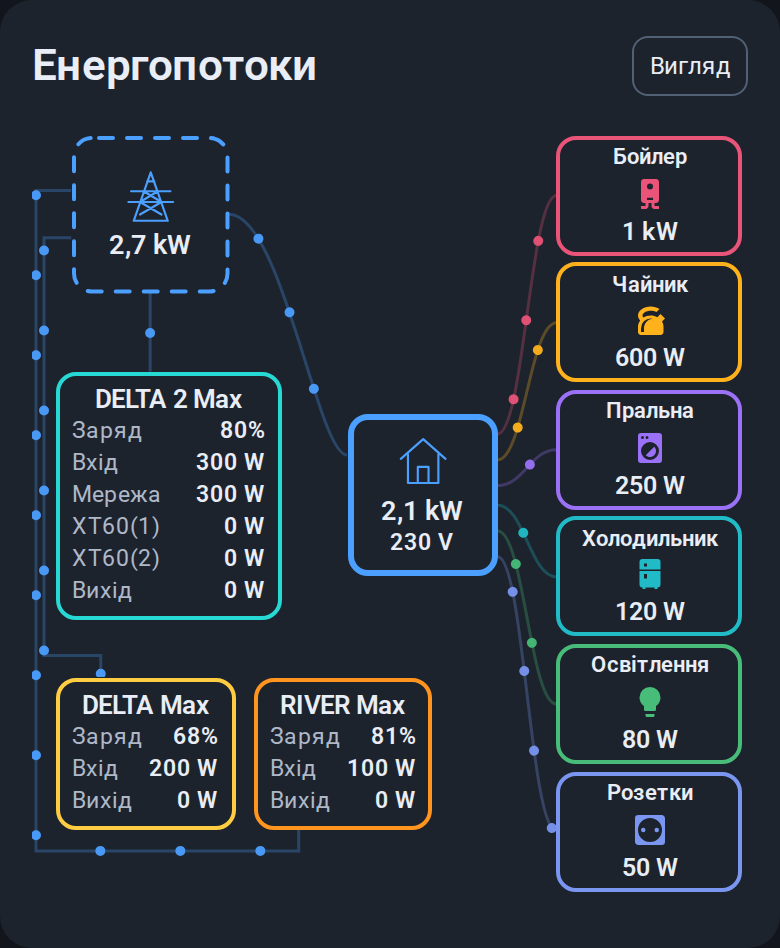
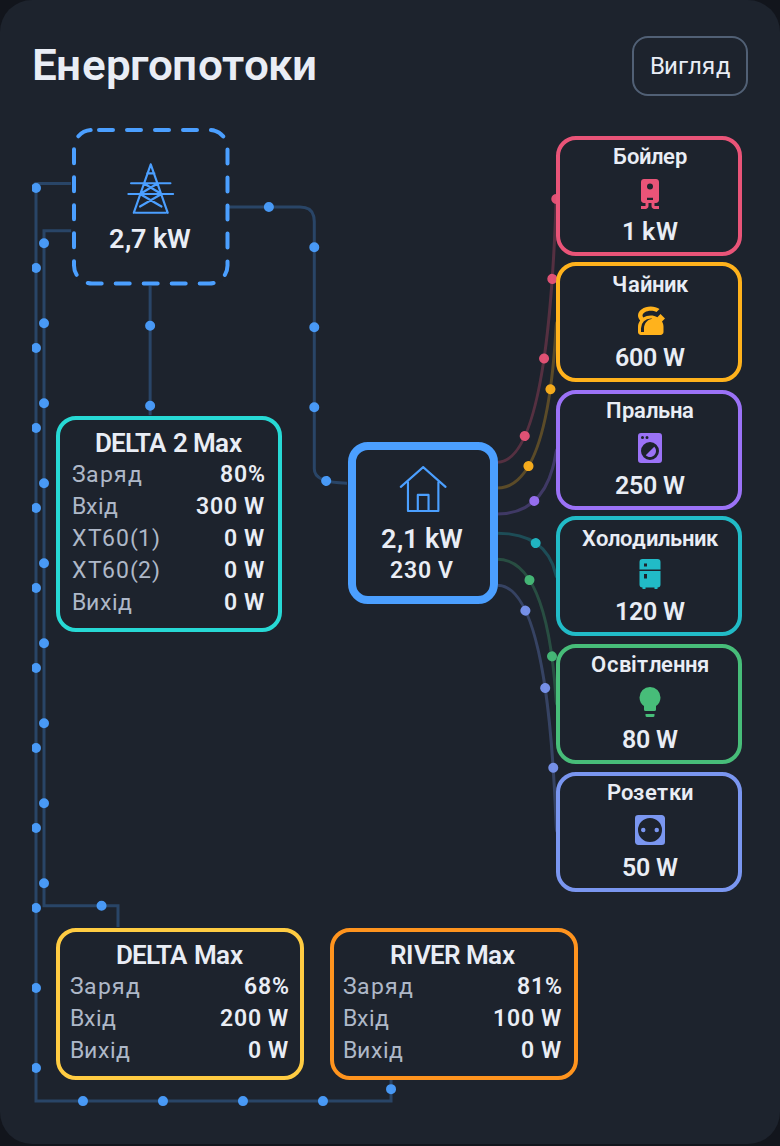
Beta 2.1.3: remove main Grid row, widen auxiliaries and preserve visible energy flows

Changed region(s): [[0.0308, 0.0306, 0.9538, 0.9789], [0.0308, 0.0306, 0.4, 0.3059], [0.0308, 0.3365, 0.0615, 0.3671]]

diff --git a/suris-ecoflow-flow-card.js b/suris-ecoflow-flow-card.js
@@ -1,8 +1,8 @@
-/* Suris EcoFlow Flow Card v2.1.1 | MIT | No external dependencies. */
+/* Suris EcoFlow Flow Card v2.1.3-beta.1 | MIT | No external dependencies. */
 (() => {
   'use strict';
   const TAG = 'suris-ecoflow-flow-card';
-  const VERSION = '2.1.1';
+  const VERSION = '2.1.3-beta.1';
   const ANIMATIONS = ['dashes', 'dots', 'arrows', 'pulse', 'single_dot'];
   const NS = 'http://www.w3.org/2000/svg';
   let cardSequence = 0;
@@ -200,6 +200,7 @@
     @container(max-width:520px){.node.home{padding-inline:3px}}
     .node.consumer{height:72px;min-height:72px;padding:4px;gap:3px;border-radius:9px}.consumer h3{font-size:clamp(11px,1.5cqw,13px);line-height:1.2;white-space:nowrap;overflow:hidden;text-overflow:ellipsis;overflow-wrap:normal}.consumer .icon{height:22px;margin:0;color:var(--node-color)}.consumer ha-icon{--mdc-icon-size:22px;width:22px;height:22px}.consumer ha-icon:not(:defined){display:none}.consumer ha-icon:defined+.fallback{display:none}.consumer .fallback{height:22px}.consumer .fallback svg{width:22px}.consumer .value{width:100%;text-align:center;font-size:12px;line-height:16px}.consumer:focus-within{outline:1px solid var(--node-color);outline-offset:2px}
     .sideflow .node{right:auto;bottom:auto;min-height:0;height:auto;padding:5px 6px;gap:2px;background:var(--ha-card-background,var(--card-background-color,#1c1c1c));border-radius:10px}
+    .sideflow .auxiliary_1,.sideflow .auxiliary_2{padding-inline:5px}
     .sideflow .node h3{font-size:clamp(11.5px,3.625cqw,14.5px);line-height:1.1;overflow:hidden;display:-webkit-box;-webkit-box-orient:vertical;-webkit-line-clamp:2;white-space:normal;overflow-wrap:anywhere}
     .sideflow .node .icon{display:none}.sideflow .row{font-size:clamp(11px,3.25cqw,13px);line-height:1.2;gap:2px}.sideflow .row[hidden]{display:none}
     .sideflow .grid h3,.sideflow .home h3{display:none}.sideflow .grid .icon,.sideflow .home .icon{display:flex;height:clamp(28px,8cqw,38px);margin:0}.sideflow .grid .icon{color:var(--flow-grid)}.sideflow .home .icon{color:var(--flow-home)}
@@ -327,7 +328,7 @@
         }
         else {
           this._row(node, 'soc', text.soc); this._row(node, 'input', text.input);
-          if (key === 'main') { this._row(node, 'ac', text.ac); this._row(node, 'solar_1', 'XT60(1)'); this._row(node, 'solar_2', 'XT60(2)'); }
+          if (key === 'main') { this._row(node, 'solar_1', 'XT60(1)'); this._row(node, 'solar_2', 'XT60(2)'); }
           this._row(node, 'output', text.output);
         }
         this._nodes[key] = node; this._diagram.append(node);
@@ -364,7 +365,6 @@
         let entity = c[node][field === 'soc' ? 'soc' : `${field}_power`];
         if (node === 'grid') entity = c.grid.power;
         if (node === 'home') entity = field === 'voltage' ? c.home.voltage : c.home.power;
-        if (node === 'main' && field === 'ac') entity = c.main.ac_input_power;
         if (node === 'main' && field === 'solar_1') entity = c.main.solar_input_power;
         if (node === 'main' && field === 'solar_2') entity = c.main.solar_input_power_2;
         if (field === 'soc') value = value != null && value >= 0 && value <= 100 ? `${formatter.format(value)}%` : '—';
@@ -465,31 +465,38 @@
       };
       const gridSize = Math.max(74, Math.min(110, 88 * sx));
       const gridTitleSpace = this._config.grid.show_name ? Math.ceil(this._nodes.grid.querySelector('h3').getBoundingClientRect().height) + 6 : 0;
-      place(this._nodes.grid, Math.max(14, 22 * sx), 12 * sy + gridTitleSpace, gridSize, gridSize);
-      place(this._nodes.main, Math.max(12, 10 * sx), 0, 126 * sx);
-      place(this._nodes.home, 176 * sx, 0, 84 * sx);
+      const stationLeft = Math.max(12, 10 * sx), mainWidth = 126 * sx;
+      const homeLeft = 176 * sx;
+      const gridY = gridTitleSpace ? Math.max(28, gridTitleSpace + 2) : 8 * sy;
+      place(this._nodes.grid, Math.max(14, 22 * sx), gridY, gridSize, gridSize);
+      place(this._nodes.main, stationLeft, 0, mainWidth);
+      place(this._nodes.home, homeLeft, 0, 84 * sx);
       this._nodes.home.style.minHeight = `${90 * sy}px`;
-      place(this._nodes.auxiliary_1, Math.max(12, 8 * sx), 0, 100 * sx);
-      place(this._nodes.auxiliary_2, 124 * sx, 0, 100 * sx);
+      // Fixed widths depend only on the card width, never on sensor readings.
+      const auxWidth = Math.max(124, 136 * sx), auxGap = Math.max(12, 14 * sx);
+      place(this._nodes.auxiliary_1, stationLeft, 0, auxWidth);
+      place(this._nodes.auxiliary_2, stationLeft + auxWidth + auxGap, 0, auxWidth);
       const consumerHeight = Math.max(60, Math.min(64, width * .16)), rightInset = 3 * sx;
       const consumerWidth = Math.min(consumerHeight * 1.55, width - rightInset - 260 * sx - 28), consumerX = width - rightInset - consumerWidth;
       for (const node of this._consumerNodes.values()) place(node, consumerX, 0, consumerWidth, consumerHeight);
       this._fitConsumerNames();
       this._fitRows();
-      const mainY = Math.max(144 * sy, 12 * sy + gridSize + 34 * sy);
+      const mainY = Math.max(144 * sy, 28 + gridSize + 44);
       this._nodes.main.style.top = `${mainY}px`;
-      const homeY = Math.max(159 * sy, mainY + (this._nodes.main.offsetHeight - this._nodes.home.offsetHeight) / 2);
+      const mainHeight = this._nodes.main.getBoundingClientRect().height, homeHeight = this._nodes.home.getBoundingClientRect().height;
+      const homeY = Math.max(159 * sy, mainY + (mainHeight - homeHeight) / 2);
       this._nodes.home.style.top = `${homeY}px`;
-      const auxY = Math.max(302 * sy, mainY + this._nodes.main.offsetHeight + 32 * sy, homeY + this._nodes.home.offsetHeight + 36 * sy);
-      for (const key of ['auxiliary_1', 'auxiliary_2']) this._nodes[key].style.top = `${auxY}px`;
       const step = consumerHeight + 4 * sy;
+      const consumerBottom = this._consumerNodes.size ? 12 * sy + (this._consumerNodes.size - 1) * step + consumerHeight : 0;
+      const auxConsumerClearance = stationLeft + 2 * auxWidth + auxGap > consumerX - 8 ? consumerBottom + 18 : 0;
+      const auxY = Math.max(302 * sy, mainY + mainHeight + 44, homeY + homeHeight + 36 * sy, auxConsumerClearance);
+      for (const key of ['auxiliary_1', 'auxiliary_2']) this._nodes[key].style.top = `${auxY}px`;
       for (const node of this._consumerNodes.values()) node.style.top = `${12 * sy + Number(node.dataset.slot) * step}px`;
       const nodeBottom = Math.max(...[...Object.values(this._nodes), ...this._consumerNodes.values()].map(node => node.offsetTop + node.offsetHeight));
       const auxBottom = Math.max(...['auxiliary_1', 'auxiliary_2'].map(key => this._nodes[key].offsetTop + this._nodes[key].offsetHeight));
       this._diagram.style.height = `${Math.max(nodeBottom + 12, auxBottom + 18 * sy)}px`;
       this._diagram.dataset.consumerRows = String(this._consumerNodes.size);
       this._sideScale = sy;
-      this._sideGridTitleSpace = gridTitleSpace;
     }
     _drawSidePaths() {
       this._layoutSideFlow(); this._drawBorders();
@@ -500,11 +507,12 @@
         return { x: r.left - base.left, y: r.top - base.top, w: r.width, h: r.height, right: r.right - base.left, bottom: r.bottom - base.top };
       };
       const g = rect('grid'), a = rect('auxiliary_1'), b = rect('auxiliary_2'), m = rect('main'), h = rect('home'), sy = this._sideScale;
-      const gap = h.x - g.right, auxLane = Math.max(a.bottom, b.bottom) + 12 * sy;
-      const gridHomeY = g.y + g.h / 2 - this._sideGridTitleSpace;
+      const auxLane = Math.max(a.bottom, b.bottom) + 12 * sy;
+      const gridHomeY = g.y + g.h / 2, homePortY = h.y + h.h * .25;
+      const gridHomeLane = m.right + (h.x - m.right) / 2, elbow = Math.min(8 * sy, (h.x - m.right) / 2);
       const routes = {
         grid_main: `M ${g.x + g.w / 2} ${g.bottom} V ${m.y}`,
-        grid_home: `M ${g.right} ${gridHomeY} C ${g.right + gap * .45} ${gridHomeY} ${h.x - gap * .25} ${h.y + h.h * .25} ${h.x} ${h.y + h.h * .25}`,
+        grid_home: `M ${g.right} ${gridHomeY} H ${gridHomeLane - elbow} Q ${gridHomeLane} ${gridHomeY} ${gridHomeLane} ${gridHomeY + elbow} V ${homePortY - elbow} Q ${gridHomeLane} ${homePortY} ${h.x} ${homePortY}`,
         main_home: `M ${m.right} ${m.y + m.h * .78} C ${m.right + (h.x - m.right) * .4} ${m.y + m.h * .78} ${h.x - (h.x - m.right) * .4} ${h.y + h.h * .72} ${h.x} ${h.y + h.h * .72}`,
         auxiliary_1_main: `M ${a.x + a.w * .75} ${a.y} C ${a.x + a.w * .75} ${a.y - 20 * sy} ${m.x + m.w * .37} ${a.y - 20 * sy} ${m.x + m.w * .37} ${m.bottom}`,
         auxiliary_2_main: `M ${b.x + b.w * .66} ${b.y} C ${b.x + b.w * .66} ${b.y - 20 * sy} ${m.x + m.w * .77} ${b.y - 20 * sy} ${m.x + m.w * .77} ${m.bottom}`,
@@ -513,7 +521,8 @@
       };
       for (const [id, node] of this._consumerNodes) {
         const c = rect(`consumer:${id}`), start = h.y + h.h * [.12, .28, .44, .56, .72, .88][Number(node.dataset.slot)], end = c.y + c.h / 2, span = c.x - h.right;
-        routes[`home_consumer_${id}`] = `M ${h.right} ${start} C ${h.right + span * .45} ${start} ${c.x - span * .45} ${end} ${c.x} ${end}`;
+        const controlX = h.right + span * .97;
+        routes[`home_consumer_${id}`] = `M ${h.right} ${start} C ${controlX} ${start} ${controlX} ${end} ${c.x} ${end}`;
       }
       this._paintRoutes(base, rect, routes, {}, true);
     }

diff --git a/demo.html b/demo.html
@@ -1,5 +1,5 @@
 <!doctype html>
-<html lang="uk"><head><meta charset="utf-8"><meta name="viewport" content="width=device-width,initial-scale=1"><title>Suris EcoFlow Flow Card 2.1.1 — Demo</title>
+<html lang="uk"><head><meta charset="utf-8"><meta name="viewport" content="width=device-width,initial-scale=1"><title>Suris EcoFlow Flow Card 2.1.3-beta.1 — Demo</title>
 <style>body{margin:20px auto;padding:0 12px;max-width:1060px;background:#111;color:#eee;font:16px system-ui;--ha-card-background:#1c1c1c;--primary-text-color:#eee;--secondary-text-color:#aaa;--divider-color:#535861}nav{display:flex;gap:8px;flex-wrap:wrap;margin:16px 0}button{background:#222;border:1px solid #666;color:#eee;padding:10px 14px;border-radius:8px;cursor:pointer}button:focus-visible{outline:2px solid #27d9d5}p{color:#aaa;font-size:13px}</style>
 </head><body><nav><button data-mode="main">Дім від EcoFlow</button><button data-mode="aux3">Передача EcoFlow №3</button><button data-mode="grid">Дім від мережі</button><button data-mode="charging">Заряджання від мережі</button><button data-mode="replace">Заміна сильнішим приладом</button><button data-mode="single">Один ряд приладів</button><button data-mode="idle">Прилади вимкнені</button><button data-mode="unknown">Джерело недоступне</button></nav><div style="display:flex;gap:18px;flex-wrap:wrap;margin:12px 0"><label>Анімація потоків <select id="animation"><option value="dashes">Поточна анімація (штрихи)</option><option value="dots">Рухомі точки</option><option value="arrows">Рухомі стрілки</option><option value="pulse">Пульсуючі світлові смуги</option><option value="single_dot">Одна рухома точка</option></select></label><label>Розмір точок <input id="dot-size" type="range" min="2" max="10" value="5"><output id="size-output">5 px</output></label></div><suris-ecoflow-flow-card></suris-ecoflow-flow-card><p>Демонстраційні показники. Для встановлення відкрий README.md.</p>
 <script src="./suris-ecoflow-flow-card.js"></script><script>

diff --git a/README.md b/README.md
@@ -1,6 +1,8 @@
-# Suris EcoFlow Flow Card 2.1.1
+# Suris EcoFlow Flow Card 2.1.3-beta.1
 
-[English](README_EN.md) · [Стабільний реліз 2.1.1](https://github.com/Suris2009/suris-ecoflow-flow-card/releases/tag/v2.1.1) · [Завантажити JS](https://github.com/Suris2009/suris-ecoflow-flow-card/releases/download/v2.1.1/suris-ecoflow-flow-card.js)
+[English](README_EN.md) · [Стабільний реліз 2.1.1](https://github.com/Suris2009/suris-ecoflow-flow-card/releases/tag/v2.1.1) · [Завантажити JS](https://github.com/Suris2009/suris-ecoflow-flow-card/releases/download/v2.1.3-beta.1/suris-ecoflow-flow-card.js)
+
+**Бета на базі 2.1.1.** У HACS увімкни показ бета-версій. [Зміни та приклади](RELEASE_NOTES.md).
 
 Картка енергопотоків для Home Assistant, яка показує міську мережу, три станції EcoFlow, дім та індивідуальні споживачі в одній схемі.
 
@@ -12,7 +14,7 @@
 - **Настроювані кольори.** Окремі кольори міської мережі, кожної станції та кожного приладу. Є готові зразки, палітра, змішування відтінку, насиченості й яскравості та повернення типового кольору. Рамка дому автоматично має колір його джерела живлення.
 - **П’ять анімацій.** Рухомі штрихи, точки, стрілки, пульсуючі світлові смуги та одна рухома точка. Розмір точок регулюється від 2 до 10 px.
 - **Регулювання швидкості та порога активності.** Загальну швидкість руху можна змінювати в редакторі, а кожна лінія додатково реагує на свою потужність. Оновлення показників змінює швидкість без перезапуску анімації. Неактивні лінії приховані.
-- **Усі основні показники.** Заряд, вхід і вихід трьох станцій; окремий AC-вхід головної EcoFlow та два входи XT60(1)/XT60(2). Для дому — потужність і необов’язковий датчик напруги. Значення автоматично відображаються у W або kW.
+- **Усі основні показники.** Заряд, вхід і вихід трьох станцій; два входи XT60(1)/XT60(2) головної EcoFlow. Для дому — потужність і необов’язковий датчик напруги. Значення автоматично відображаються у W або kW.
 - **Автоматичне визначення живлення дому.** Джерело визначається за показаннями потужності. Окремий датчик потужності дому необов’язковий: картка може використовувати вихід головної EcoFlow або розрахунок від мережі з відніманням заряджання станцій.
 - **Попередження про відсутність мережі.** За налаштованим датчиком у блоці мережі блимає напис «Мережі немає». Джерела, що віддають енергію, мають рухомі пунктирні рамки за годинниковою стрілкою; рамка дому залишається суцільною.
 - **Назви, іконки та докладні дані.** У «Боковому потоці» назви приладів показані одним рядком, довгі скорочуються двома крапками; повна назва є в підказці. Іконки вирівняні між назвою та потужністю. Натискання показника з налаштованою сутністю відкриває її докладну інформацію.
@@ -34,11 +36,11 @@
 
 ## Встановлення та оновлення
 
-Додай `https://github.com/Suris2009/suris-ecoflow-flow-card` як користувацький репозиторій HACS для карток панелі огляду (Dashboard), встанови **2.1.1** та перезавантаж інтерфейс Home Assistant. Додай картку **Suris EcoFlow Flow Card** на панель і вибери сутності у візуальному редакторі.
+Додай `https://github.com/Suris2009/suris-ecoflow-flow-card` як користувацький репозиторій HACS для карток панелі огляду (Dashboard), встанови **2.1.3-beta.1** та перезавантаж інтерфейс Home Assistant. Додай картку **Suris EcoFlow Flow Card** на панель і вибери сутності у візуальному редакторі.
 
 Ресурс HACS: `/hacsfiles/suris-ecoflow-flow-card/suris-ecoflow-flow-card.js`, тип **JavaScript module**. Якщо ресурс уже додано, використовується той самий файл.
 
-Для ручного встановлення завантаж JS-файл із релізу, поклади його до `www` у каталозі конфігурації Home Assistant та додай ресурс `/local/suris-ecoflow-flow-card.js?v=2.1.1` типу **JavaScript module**. Якщо каталог `www` створено вперше, перезапусти Home Assistant.
+Для ручного встановлення завантаж JS-файл із релізу, поклади його до `www` у каталозі конфігурації Home Assistant та додай ресурс `/local/suris-ecoflow-flow-card.js?v=2.1.3-beta.1` типу **JavaScript module**. Якщо каталог `www` створено вперше, перезапусти Home Assistant.
 
 При оновленні зі стабільної 2.0.8 або бети 2.1 налаштування сутностей, приладів, кольорів і анімації зберігаються. Наявні картки початково використовують класичне розташування; збережений у браузері вибір бокового вигляду також залишається. Дублювати картку чи JS-ресурс не потрібно.
 
@@ -83,7 +85,7 @@ appearance:
 | --- | --- |
 | Міська мережа | Потужність; необов’язковий датчик наявності мережі та стан «мережа є». |
 | Кожна допоміжна станція | Заряд (%), загальний вхід і вихід; необов’язково окремі потужності заряджання від мережі та передачі на головну станцію. |
-| Головна EcoFlow | Заряд (%), загальний вхід і вихід, окремий AC-вхід, два DC-входи XT60(1)/XT60(2); необов’язково окремий вихід на дім. |
+| Головна EcoFlow | Заряд (%), загальний вхід і вихід, два DC-входи XT60(1)/XT60(2); необов’язково окремий вихід на дім. |
 | Дім | Необов’язкові датчики потужності та напруги; напруга показується під потужністю у V. |
 
 Джерело дому визначається за потужністю виходу головної станції на дім. Якщо вибрано окремий датчик цього виходу, він має пріоритет над загальним виходом. Потужність вище порога означає живлення від EcoFlow; доступний невід’ємний показник на порозі або нижче — від мережі. Якщо вихід EcoFlow недоступний, додатна потужність мережі вище порога дає можливість визначити живлення від мережі.

diff --git a/RELEASE_NOTES.md b/RELEASE_NOTES.md
@@ -1,21 +1,31 @@
-# 2.1.1 — Home border and optional names / Рамка дому та необов’язкові назви
-
-## English
-
-- Increase Home’s solid border slightly, from 3 px to 4 px, in both layouts.
-- Add separate switches for custom grid and Home names above their frames in Side flow. The names do not increase card height or replace the icons.
-- Keep existing view preferences, power calculations, consumer sizes, flow colors and animations.
-
-In **City grid** and **Home**, enter text in **Name** and enable **Show name above the block in Side flow**. Each name is controlled independently and appears above its frame. Long names are truncated, with the full text in a tooltip. Names are hidden by default and do not increase the card height.
-
-<img src="https://raw.githubusercontent.com/Suris2009/suris-ecoflow-flow-card/v2.1.1/preview-sideflow-names-en.png" width="390" alt="Side flow with grid and Home names above the frames">
+# 2.1.3-beta.1 — Station spacing / Відстані між станціями
 
 ## Українська
 
-- Суцільна рамка дому трохи товстіша: 4 px замість 3 px в обох виглядах.
-- Додано окремі перемикачі довільних назв над рамками мережі й дому в боковому вигляді. Назви не збільшують висоту картки та не замінюють іконки.
-- Збережено вибір вигляду, розрахунки потужності, розміри споживачів, кольори й анімації потоків.
+Бета на базі стабільної 2.1.1.
 
-У блоках **Міська мережа** та **Дім** введи текст у полі **Назва** й увімкни **Показувати назву над блоком у боковому вигляді**. Назви вмикаються окремо та показуються над відповідними рамками. Довгі назви скорочуються, а повний текст доступний у підказці. За замовчуванням назви приховані; висота картки не збільшується.
+- Повністю прибрано рядок «Мережа» з головної станції в обох виглядах. Датчик AC-входу залишається в налаштуваннях для розрахунків та потоку мережа → головна станція.
+- У боковому вигляді потік місто → дім виходить із середини правої сторони міського блоку, зокрема з увімкненою назвою над ним.
+- Обидві допоміжні станції ширші; показники kW розташовані в одному рядку зі своїми підписами. Ширина не змінюється від показань датчиків; шрифт збережено.
+- Міський блок трохи піднято. Від міста до головної станції та від головної до допоміжних залишено щонайменше 44 px для видимого потоку.
+- На вузькому екрані допоміжні станції розміщуються нижче стовпчика приладів, якщо їхня ширина потребує цього простору.
 
-<img src="https://raw.githubusercontent.com/Suris2009/suris-ecoflow-flow-card/v2.1.1/preview-sideflow-names-uk.png" width="390" alt="Боковий потік із назвами над рамками мережі й дому">
+У HACS відкрий повторне завантаження картки, увімкни показ бета-версій та вибери **2.1.3-beta.1**. Після встановлення перезавантаж інтерфейс Home Assistant. Стабільний реліз — **2.1.1**.
+
+<img src="https://raw.githubusercontent.com/Suris2009/suris-ecoflow-flow-card/v2.1.3-beta.1/preview-sideflow-charging-uk.png" width="390" alt="Боковий потік: заряджання головної станції без рядка Мережа">
+<img src="https://raw.githubusercontent.com/Suris2009/suris-ecoflow-flow-card/v2.1.3-beta.1/preview-sideflow-stations-uk.png" width="390" alt="Ширші допоміжні станції з показниками kW">
+
+## English
+
+Beta based on stable 2.1.1.
+
+- Remove the Grid row completely from the main station in both layouts. Keep the AC input entity in the editor for calculations and the grid-to-main flow.
+- In Side flow, the city-to-Home route leaves the midpoint of the city block's right border, including when its custom name is visible.
+- Widen both auxiliary stations so kW readings stay on one line with their labels. Sensor readings never resize station widths; text retains its existing size.
+- Move the city block slightly upward. Keep at least 44 px between the city and main station, and between the main and auxiliary stations, for visible energy flows.
+- On narrow screens, place the auxiliaries below the device column when their width requires that space.
+
+In HACS, open the card's redownload dialog, enable beta versions and select **2.1.3-beta.1**. Reload the Home Assistant frontend after installation. The stable release remains **2.1.1**.
+
+<img src="https://raw.githubusercontent.com/Suris2009/suris-ecoflow-flow-card/v2.1.3-beta.1/preview-sideflow-charging-en.png" width="390" alt="Side flow: main station charging without a Grid row">
+<img src="https://raw.githubusercontent.com/Suris2009/suris-ecoflow-flow-card/v2.1.3-beta.1/preview-sideflow-stations-en.png" width="390" alt="Wider auxiliary stations with kW readings">

diff --git a/README_EN.md b/README_EN.md
@@ -1,6 +1,8 @@
-# Suris EcoFlow Flow Card 2.1.1
+# Suris EcoFlow Flow Card 2.1.3-beta.1
 
-[Українська](README.md) · [Stable release 2.1.1](https://github.com/Suris2009/suris-ecoflow-flow-card/releases/tag/v2.1.1) · [Download JS](https://github.com/Suris2009/suris-ecoflow-flow-card/releases/download/v2.1.1/suris-ecoflow-flow-card.js)
+[Українська](README.md) · [Stable release 2.1.1](https://github.com/Suris2009/suris-ecoflow-flow-card/releases/tag/v2.1.1) · [Download JS](https://github.com/Suris2009/suris-ecoflow-flow-card/releases/download/v2.1.3-beta.1/suris-ecoflow-flow-card.js)
+
+**Beta based on 2.1.1.** Enable beta versions in HACS. [Changes and examples](RELEASE_NOTES.md).
 
 A Home Assistant energy flow card that brings the city grid, three EcoFlow stations, Home and individual consumers into one diagram.
 
@@ -12,7 +14,7 @@ A Home Assistant energy flow card that brings the city grid, three EcoFlow stati
 - **Custom colors.** Set separate colors for the city grid, each station and each device. Choose presets, use a palette, mix hue, saturation and lightness, or restore defaults. Home’s border automatically takes the color of its power source.
 - **Five animations.** Moving dashes, dots, arrows, pulsing light strips and one moving dot. Dot size is adjustable from 2 to 10 px.
 - **Adjustable speed and activity threshold.** Set the overall movement speed in the editor; each line also responds to its own power. Live readings adjust speed without restarting the animation. Inactive connections stay hidden.
-- **All key readings.** Battery charge, input and output for three stations; a dedicated AC input and two XT60(1)/XT60(2) inputs for the main EcoFlow. Home shows power and optional voltage. Values automatically use W or kW.
+- **All key readings.** Battery charge, input and output for three stations; two XT60(1)/XT60(2) inputs for the main EcoFlow. Home shows power and optional voltage. Values automatically use W or kW.
 - **Automatic Home source detection.** Power readings determine the source. A separate Home power sensor is optional: the card can use main EcoFlow output or calculate Home demand from grid power minus station charging.
 - **Grid outage warning.** An optional availability sensor triggers a pulsing No grid message inside the grid block. Supplying sources have clockwise moving dashed borders; Home retains a solid border.
 - **Names, icons and details.** Side flow keeps consumer names on one line, ending long names with two dots; the full name remains in the tooltip. Icons are centered between name and power. Clicking a reading with a configured entity opens its details.
@@ -34,11 +36,11 @@ Screenshots of the actual card with demonstration readings. Station names, entit
 
 ## Installation and upgrades
 
-Add `https://github.com/Suris2009/suris-ecoflow-flow-card` as a HACS custom Dashboard repository, install **2.1.1**, and reload the Home Assistant frontend. Add **Suris EcoFlow Flow Card** to your dashboard and select entities in the visual editor.
+Add `https://github.com/Suris2009/suris-ecoflow-flow-card` as a HACS custom Dashboard repository, install **2.1.3-beta.1**, and reload the Home Assistant frontend. Add **Suris EcoFlow Flow Card** to your dashboard and select entities in the visual editor.
 
 HACS resource: `/hacsfiles/suris-ecoflow-flow-card/suris-ecoflow-flow-card.js`, type **JavaScript module**. An existing resource continues to use the same file.
 
-For manual installation, download the release JS file, put it in `www` under your Home Assistant configuration directory, and add `/local/suris-ecoflow-flow-card.js?v=2.1.1` as a **JavaScript module** resource. Restart Home Assistant if you have just created `www` for the first time.
+For manual installation, download the release JS file, put it in `www` under your Home Assistant configuration directory, and add `/local/suris-ecoflow-flow-card.js?v=2.1.3-beta.1` as a **JavaScript module** resource. Restart Home Assistant if you have just created `www` for the first time.
 
 Upgrading from stable 2.0.8 or a 2.1 beta retains entities, consumers, colors and animation settings. Existing configurations initially use Classic; a Side flow selection already saved in the browser is also retained. No duplicate card or resource is needed.
 
@@ -83,7 +85,7 @@ In Side flow, long names end with two dots (`..`); tooltips retain full names. C
 | --- | --- |
 | City grid | Power; optional grid availability sensor and its available state. |
 | Each auxiliary station | Charge (%), total input and output; optional dedicated grid charging and transfer-to-main power. |
-| Main EcoFlow | Charge (%), total input and output, separate AC input, two XT60(1)/XT60(2) DC inputs; optional dedicated Home feed output. |
+| Main EcoFlow | Charge (%), total input and output, two XT60(1)/XT60(2) DC inputs; optional dedicated Home feed output. |
 | Home | Optional power and voltage sensors; voltage appears below power in V. |
 
 Home’s source follows the main station’s Home feed output. A dedicated Home feed sensor takes priority over total output. Power above the threshold selects EcoFlow; an available nonnegative reading at or below the threshold selects grid. If EcoFlow output is unavailable, grid power above the threshold can identify grid supply.

diff --git a/CHANGELOG.md b/CHANGELOG.md
@@ -1,3 +1,35 @@
+# 2.1.3-beta.1 — Station spacing / Відстані між станціями
+
+## Українська
+
+Бета на базі стабільної 2.1.1.
+
+- Повністю прибрано рядок «Мережа» з головної станції в обох виглядах. Датчик AC-входу залишається в налаштуваннях для розрахунків та потоку мережа → головна станція.
+- У боковому вигляді потік місто → дім виходить із середини правої сторони міського блоку, зокрема з увімкненою назвою над ним.
+- Обидві допоміжні станції ширші; показники kW розташовані в одному рядку зі своїми підписами. Ширина не змінюється від показань датчиків; шрифт збережено.
+- Міський блок трохи піднято. Від міста до головної станції та від головної до допоміжних залишено щонайменше 44 px для видимого потоку.
+- На вузькому екрані допоміжні станції розміщуються нижче стовпчика приладів, якщо їхня ширина потребує цього простору.
+
+У HACS відкрий повторне завантаження картки, увімкни показ бета-версій та вибери **2.1.3-beta.1**. Після встановлення перезавантаж інтерфейс Home Assistant. Стабільний реліз — **2.1.1**.
+
+<img src="https://raw.githubusercontent.com/Suris2009/suris-ecoflow-flow-card/v2.1.3-beta.1/preview-sideflow-charging-uk.png" width="390" alt="Боковий потік: заряджання головної станції без рядка Мережа">
+<img src="https://raw.githubusercontent.com/Suris2009/suris-ecoflow-flow-card/v2.1.3-beta.1/preview-sideflow-stations-uk.png" width="390" alt="Ширші допоміжні станції з показниками kW">
+
+## English
+
+Beta based on stable 2.1.1.
+
+- Remove the Grid row completely from the main station in both layouts. Keep the AC input entity in the editor for calculations and the grid-to-main flow.
+- In Side flow, the city-to-Home route leaves the midpoint of the city block's right border, including when its custom name is visible.
+- Widen both auxiliary stations so kW readings stay on one line with their labels. Sensor readings never resize station widths; text retains its existing size.
+- Move the city block slightly upward. Keep at least 44 px between the city and main station, and between the main and auxiliary stations, for visible energy flows.
+- On narrow screens, place the auxiliaries below the device column when their width requires that space.
+
+In HACS, open the card's redownload dialog, enable beta versions and select **2.1.3-beta.1**. Reload the Home Assistant frontend after installation. The stable release remains **2.1.1**.
+
+<img src="https://raw.githubusercontent.com/Suris2009/suris-ecoflow-flow-card/v2.1.3-beta.1/preview-sideflow-charging-en.png" width="390" alt="Side flow: main station charging without a Grid row">
+<img src="https://raw.githubusercontent.com/Suris2009/suris-ecoflow-flow-card/v2.1.3-beta.1/preview-sideflow-stations-en.png" width="390" alt="Wider auxiliary stations with kW readings">
+
 # 2.1.1 — Home border and optional names / Рамка дому та необов’язкові назви
 
 ## English
